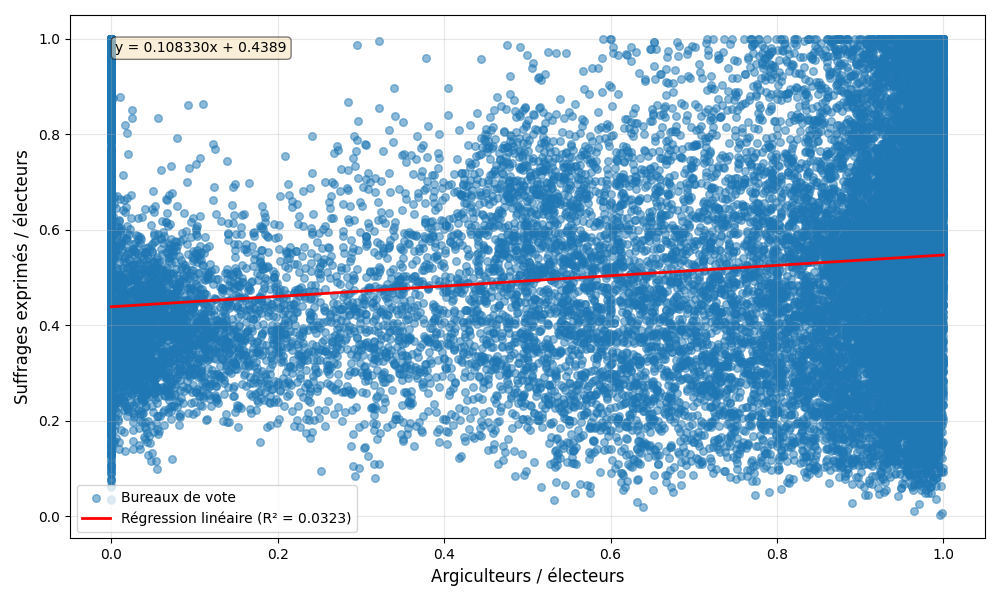
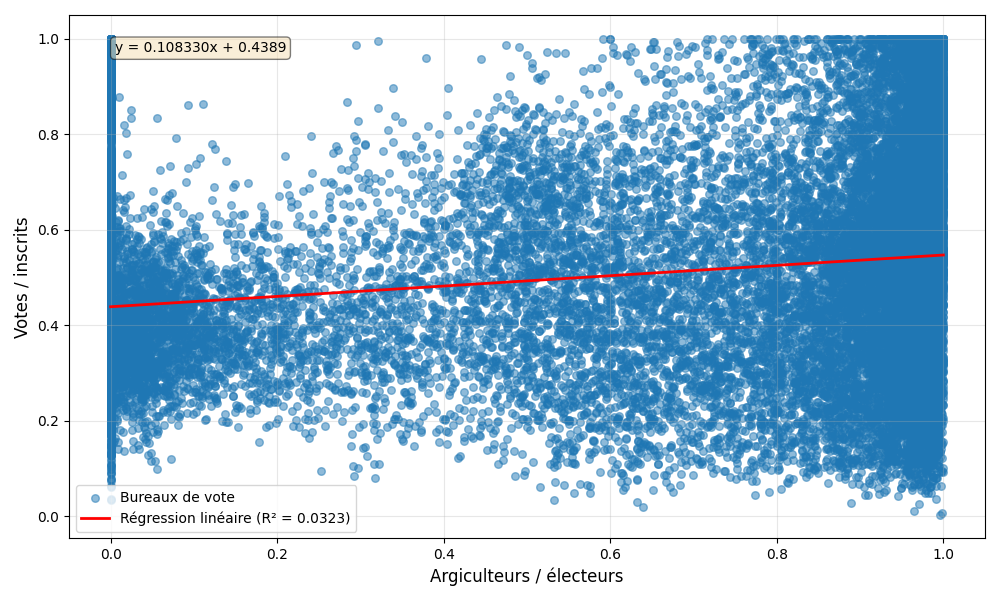
election presidentielle 2023 / updated graphs

diff --git a/docs/docs/election-presidentielle-2023.md b/docs/docs/election-presidentielle-2023.md
@@ -114,12 +114,12 @@ Les analyses ci-dessous ont été faites sur les résultats d'environ **24 000 b
 On pourrait penser que ce sont dans zones où les électeurs sont majoritairement des argiculteurs que les votes sont les plus faibles.
 Pourtant, il ne semble pas y avoir de lien.
 
-![Relation entre le nombre d'argiculteurs et le taux de suffrages exprimés](/docs/election-presidentielle-2023-agriculteurs-se.png "Relation entre le nombre d'argiculteurs et le taux de suffrages exprimés")
+![Relation entre le nombre d'argiculteurs et le taux de votes](/docs/election-presidentielle-2023-agriculteurs-se.png "Relation entre le nombre d'argiculteurs et le taux de votes")
 
 ### Étudiants
 
-Pourtant, il semble y avoir un lien entre les **étudiants** et les **suffrages exprimés** : les étudiants ont moins de probabilité de voter.
+Pourtant, il semble y avoir un lien entre les **étudiants** et le taux de **vote** : les étudiants ont moins de probabilité de voter.
 
-![Relation entre le nombre d'étudiants et le taux de suffrages exprimés](/docs/election-presidentielle-2023-etudiants-se.png "Relation entre le nombre d'étudiants et le taux de suffrages exprimés")
+![Relation entre le nombre d'étudiants et le taux de votes](/docs/election-presidentielle-2023-etudiants-se.png "Relation entre le nombre d'étudiants et le taux de votes")
 
 **Sources**: [CENI](https://www.ceni-madagascar.mg/), [INSTAT](https://www.instat.mg/)

diff --git a/public/docs/election-presidentielle-2023.md b/public/docs/election-presidentielle-2023.md
@@ -114,12 +114,12 @@ Les analyses ci-dessous ont été faites sur les résultats d'environ **24 000 b
 On pourrait penser que ce sont dans zones où les électeurs sont majoritairement des argiculteurs que les votes sont les plus faibles.
 Pourtant, il ne semble pas y avoir de lien.
 
-![Relation entre le nombre d'argiculteurs et le taux de suffrages exprimés](/docs/election-presidentielle-2023-agriculteurs-se.png "Relation entre le nombre d'argiculteurs et le taux de suffrages exprimés")
+![Relation entre le nombre d'argiculteurs et le taux de votes](/docs/election-presidentielle-2023-agriculteurs-se.png "Relation entre le nombre d'argiculteurs et le taux de votes")
 
 ### Étudiants
 
-Pourtant, il semble y avoir un lien entre les **étudiants** et les **suffrages exprimés** : les étudiants ont moins de probabilité de voter.
+Pourtant, il semble y avoir un lien entre les **étudiants** et le taux de **vote** : les étudiants ont moins de probabilité de voter.
 
-![Relation entre le nombre d'étudiants et le taux de suffrages exprimés](/docs/election-presidentielle-2023-etudiants-se.png "Relation entre le nombre d'étudiants et le taux de suffrages exprimés")
+![Relation entre le nombre d'étudiants et le taux de votes](/docs/election-presidentielle-2023-etudiants-se.png "Relation entre le nombre d'étudiants et le taux de votes")
 
 **Sources**: [CENI](https://www.ceni-madagascar.mg/), [INSTAT](https://www.instat.mg/)
